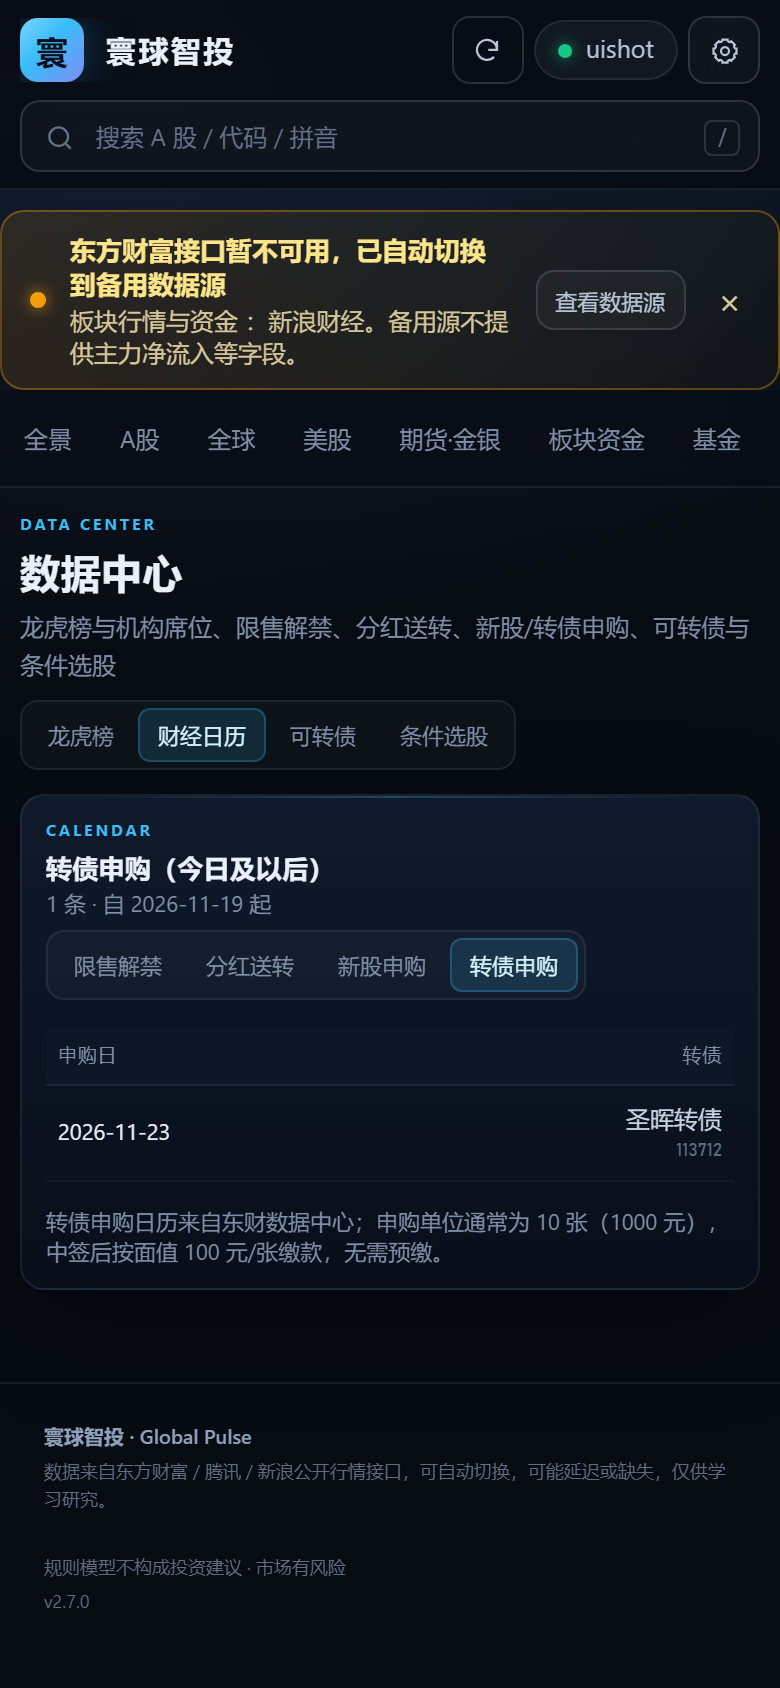
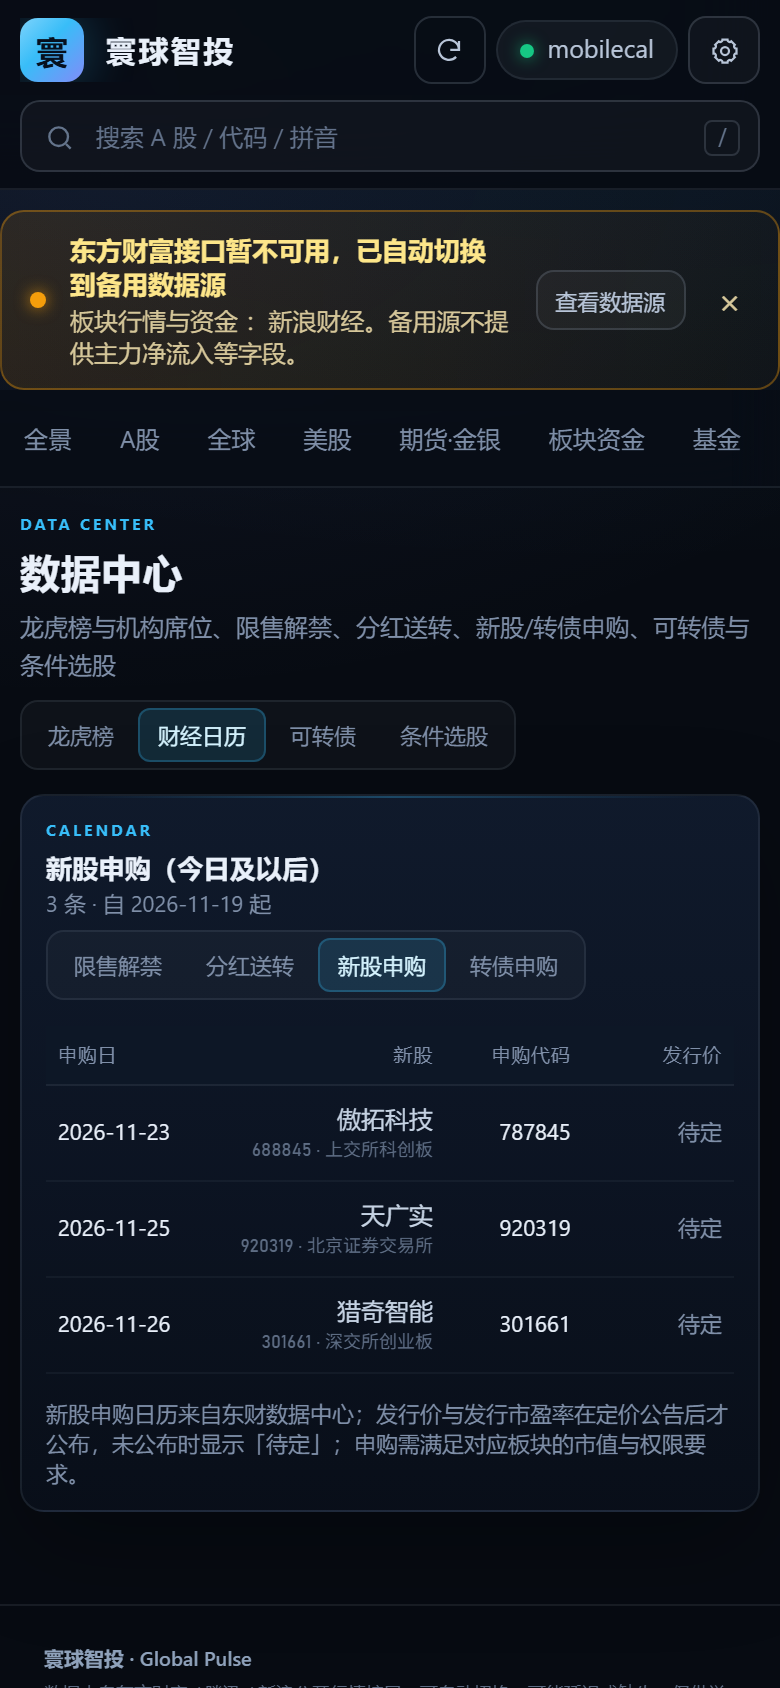
auto: 2026-11-19 05:36

diff --git a/public/css/app.css b/public/css/app.css
@@ -3080,13 +3080,14 @@ button[hidden] { display: none !important; }
   .screener-table th:nth-child(7), .screener-table td:nth-child(7),
   .screener-table th:nth-child(9), .screener-table td:nth-child(9) { display: none; }
 
-  /* 新股申购（v2.7.0）：申购日 / 新股 / 发行价 / 申购上限（隐藏 申购代码、市盈率、行业PE、中签号日、上市日） */
-  .calendar-ipo th:nth-child(3), .calendar-ipo td:nth-child(3),
+  /* 新股申购（v2.7.0）：申购日 / 新股 / 申购代码 / 发行价 / 申购上限（隐藏 市盈率、行业PE、中签号日、上市日） */
   .calendar-ipo th:nth-child(6), .calendar-ipo td:nth-child(6),
   .calendar-ipo th:nth-child(7), .calendar-ipo td:nth-child(7),
   .calendar-ipo th:nth-child(8), .calendar-ipo td:nth-child(8),
   .calendar-ipo th:nth-child(9), .calendar-ipo td:nth-child(9) { display: none; }
-  .calendar-ipo th:nth-child(2) { width: 40%; }
+  .calendar-ipo th:nth-child(1) { width: 22%; }
+  .calendar-ipo th:nth-child(2) { width: 36%; }
+  .calendar-ipo th:nth-child(3) { width: 20%; }
   .calendar-ipo th:nth-child(4) { width: 22%; }
 
   /* 转债申购（v2.7.0）：申购日 / 转债 / 申购代码（隐藏 正股、评级、发行规模、转股价、上市日） */
@@ -3098,11 +3099,10 @@ button[hidden] { display: none !important; }
   .calendar-cbapply th:nth-child(2) { width: 46%; }
 }
 
-/* 极窄屏再收一列：新股只留「申购日 / 新股」，转债只留「申购日 / 转债」 */
+/* 极窄屏再收一列：新股只留「申购日 / 新股 / 申购代码 / 发行价」，转债只留「申购日 / 转债 / 申购代码」
+   （申购代码在手机上是有用信息——打新就是照着这个代码下单，所以保留） */
 @media (max-width: 430px) {
-  .calendar-ipo th:nth-child(4), .calendar-ipo td:nth-child(4),
-  .calendar-ipo th:nth-child(5), .calendar-ipo td:nth-child(5),
-  .calendar-cbapply th:nth-child(3), .calendar-cbapply td:nth-child(3) { display: none; }
+  .calendar-ipo th:nth-child(5), .calendar-ipo td:nth-child(5) { display: none; }
 }
 
 /* ---------- 叠层（v2.7.0） ----------

diff --git a/docs/客户端改进路线图.md b/docs/客户端改进路线图.md
@@ -240,6 +240,8 @@
 
 > 阶段 2 的四项、阶段 3 的三项随 v2.5.0 上线本机（8090），NAS 仍按用户要求不自动推送。
 >
+> **v2.7.0 的部署**：本轮按用户明确要求「同时部署到本地和 NAS」，除本机 8090 外已推送到 NAS（`/data/gp`，systemctl `gp-terminal`）。部署前代码已备份到 `/data/backup/gp-code/gp-before-2.7.0-20261119-0527.tar.gz`；`/api/health` 返回 `2.7.0`，`login.html` 静态资源版本为 `app.css?v=2.7.0`，新接口未登录返回 401（说明分发器已注册而不是 404）。
+>
 > **未完成项的实际情况**（不是漏掉，是判断后暂缓）：
 > - **3.2 北向资金**：2024-08 起交易所取消盘中实时净流入披露，免费源只剩额度/余额类指标；按错误口径上线等于编数字，留待单独设计合规口径。
 > - **3.5 移动端底部 Tab**：纯 CSS/视觉改动，改完需要人工在小屏验收；本轮已做全量手机端核查（见下），底部 Tab 仍留作独立改动。
